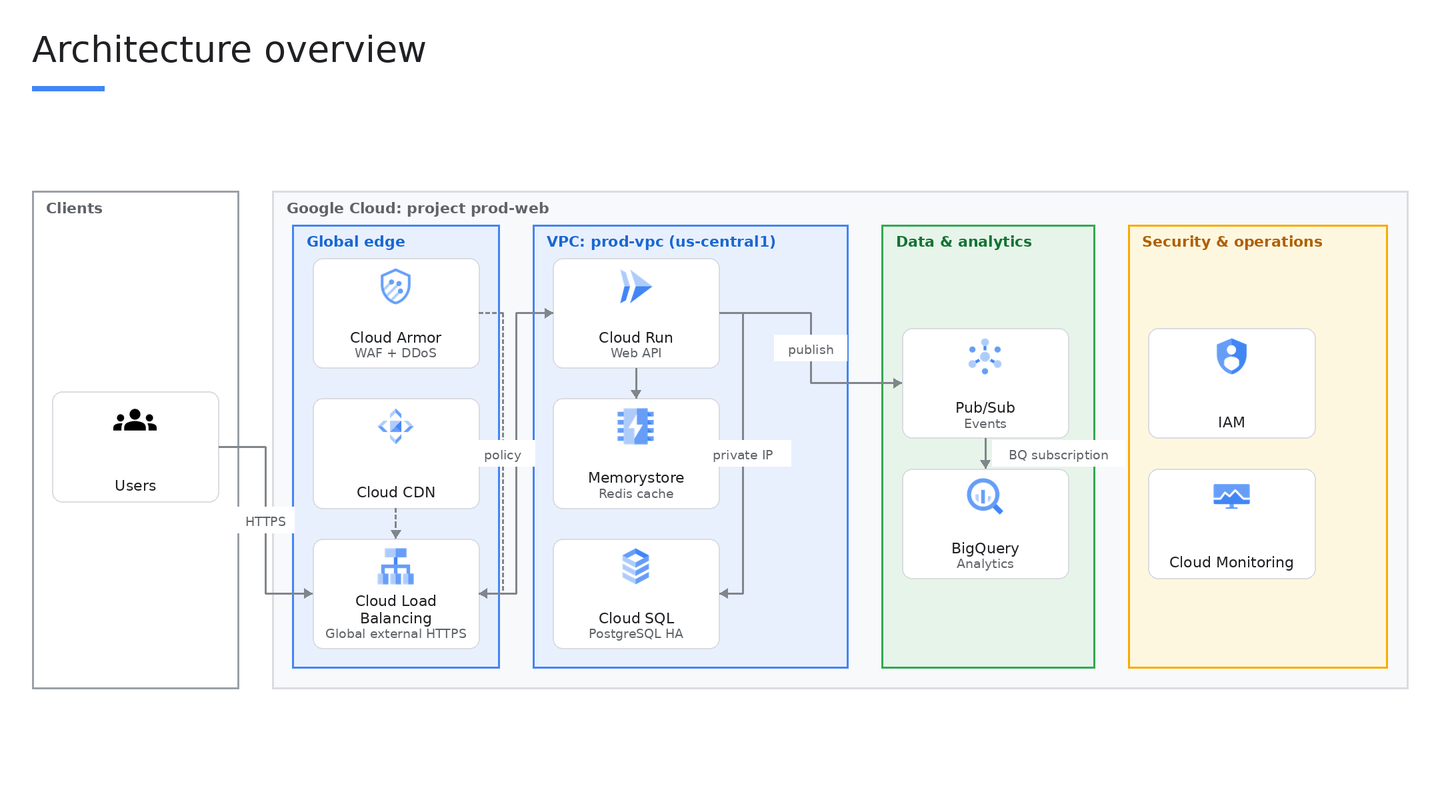
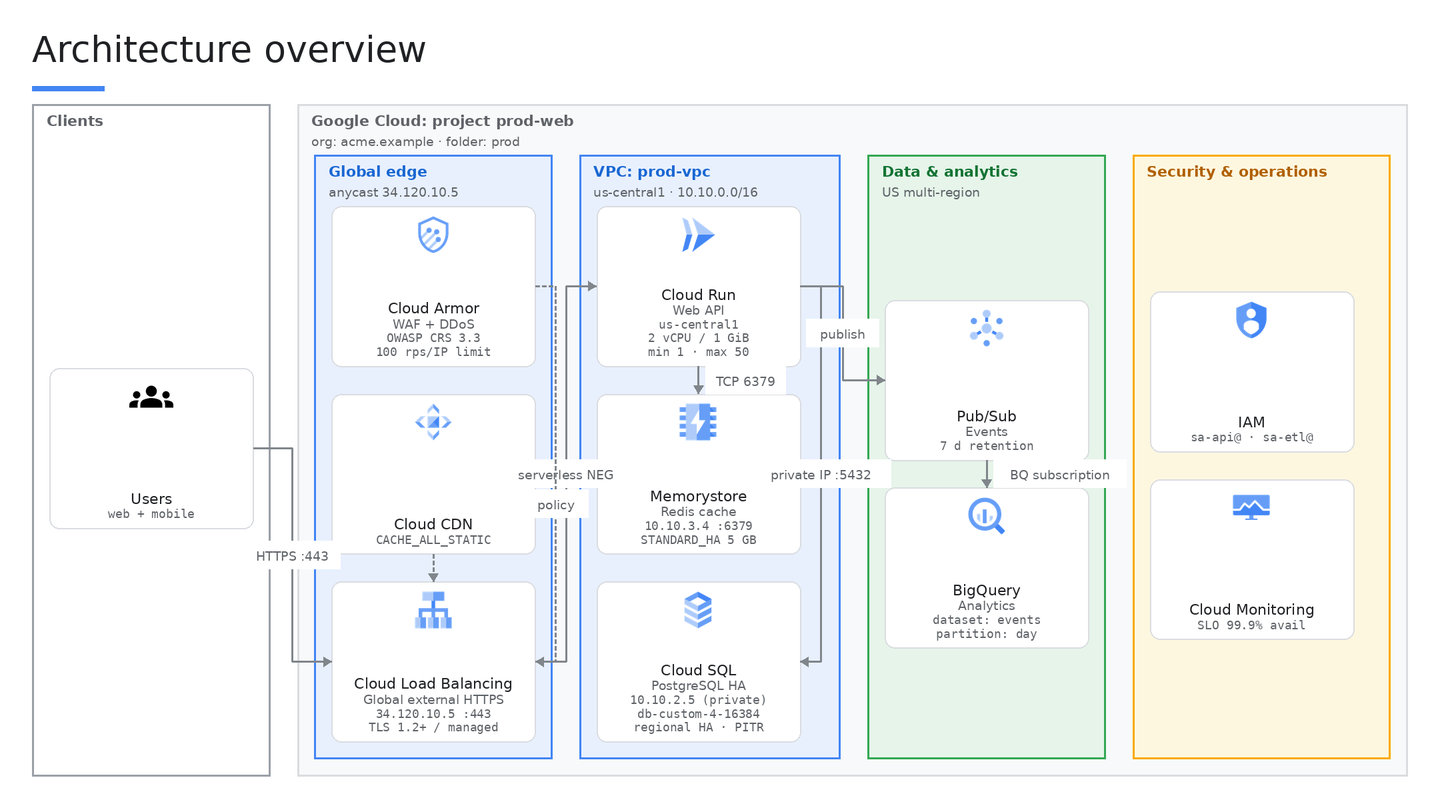
Diagrams: low-level detail — zone detail lines (region/CIDR/project), up to 3 monospace detail lines per card (IPs, ports, machine types, tiers, HA, SLOs), port-level edge labels, dynamic card size, label collision avoidance; validated on live Slides API

diff --git a/gcp_architect/diagram/spec.py b/gcp_architect/diagram/spec.py
@@ -29,7 +29,11 @@ class Zone(BaseModel):
     """A labelled container (boundary) drawn around nodes and/or child zones."""
 
     id: str = Field(description="Short snake_case identifier, e.g. 'vpc_prod'.")
-    label: str = Field(description="Display label, e.g. 'VPC: prod-vpc (us-central1)'.")
+    label: str = Field(description="Display label, e.g. 'VPC: prod-vpc'.")
+    detail: str | None = Field(
+        default=None, max_length=48,
+        description="Second line with low-level facts, e.g. 'us-central1 · 10.10.0.0/16' or 'project: acme-prod-01'.",
+    )
     kind: ZoneKind = "generic"
     parent: str | None = Field(default=None, description="Id of the enclosing zone, if nested.")
 
@@ -53,6 +57,20 @@ class Node(BaseModel):
     )
     icon: str | None = Field(default=None, description="Optional explicit icon id override.")
     zone: str | None = Field(default=None, description="Id of the zone that contains this node.")
+    details: list[str] = Field(
+        default_factory=list, max_length=3,
+        description="Up to 3 short technical lines (<= 20 chars each) shown on the card in monospace: "
+                    "region/zone, IP or CIDR, machine type, tier/edition, instance counts, ports. "
+                    "e.g. ['us-central1', '10.10.1.0/24', 'e2-standard-4 x3'].",
+    )
+
+    @field_validator("details")
+    @classmethod
+    def _short_details(cls, v: list[str]) -> list[str]:
+        for d in v:
+            if len(d) > 20:
+                raise ValueError(f"detail line too long ({len(d)} > 20 chars): '{d}'")
+        return v
 
     @field_validator("id")
     @classmethod
@@ -65,7 +83,7 @@ class Node(BaseModel):
 class Edge(BaseModel):
     source: str
     target: str
-    label: str | None = Field(default=None, description="Short protocol/flow label, e.g. 'HTTPS', 'CDC'.")
+    label: str | None = Field(default=None, max_length=28, description="Short protocol/flow label, e.g. 'HTTPS :443', 'CDC', 'BGP 169.254.0.1'.")
     style: EdgeStyle = "solid"
     bidirectional: bool = False
 
@@ -136,32 +154,32 @@ def example_spec() -> dict:
         "subtitle": "Globally load-balanced Cloud Run API with Cloud SQL, Memorystore and Pub/Sub analytics",
         "zones": [
             {"id": "ext", "label": "Clients", "kind": "external"},
-            {"id": "gcp", "label": "Google Cloud: project prod-web", "kind": "project"},
-            {"id": "edge", "label": "Global edge", "kind": "network", "parent": "gcp"},
-            {"id": "vpc", "label": "VPC: prod-vpc (us-central1)", "kind": "network", "parent": "gcp"},
-            {"id": "data", "label": "Data & analytics", "kind": "data", "parent": "gcp"},
+            {"id": "gcp", "label": "Google Cloud: project prod-web", "detail": "org: acme.example · folder: prod", "kind": "project"},
+            {"id": "edge", "label": "Global edge", "detail": "anycast 34.120.10.5", "kind": "network", "parent": "gcp"},
+            {"id": "vpc", "label": "VPC: prod-vpc", "detail": "us-central1 · 10.10.0.0/16", "kind": "network", "parent": "gcp"},
+            {"id": "data", "label": "Data & analytics", "detail": "US multi-region", "kind": "data", "parent": "gcp"},
             {"id": "ops", "label": "Security & operations", "kind": "operations", "parent": "gcp"},
         ],
         "nodes": [
-            {"id": "users", "label": "Users", "product": "users", "zone": "ext"},
-            {"id": "lb", "label": "Cloud Load Balancing", "sublabel": "Global external HTTPS", "product": "cloud_load_balancing", "zone": "edge"},
-            {"id": "armor", "label": "Cloud Armor", "sublabel": "WAF + DDoS", "product": "cloud_armor", "zone": "edge"},
-            {"id": "cdn", "label": "Cloud CDN", "product": "cloud_cdn", "zone": "edge"},
-            {"id": "api", "label": "Cloud Run", "sublabel": "Web API", "product": "cloud_run", "zone": "vpc"},
-            {"id": "cache", "label": "Memorystore", "sublabel": "Redis cache", "product": "memorystore", "zone": "vpc"},
-            {"id": "db", "label": "Cloud SQL", "sublabel": "PostgreSQL HA", "product": "cloud_sql", "zone": "vpc"},
-            {"id": "topic", "label": "Pub/Sub", "sublabel": "Events", "product": "pubsub", "zone": "data"},
-            {"id": "bq", "label": "BigQuery", "sublabel": "Analytics", "product": "bigquery", "zone": "data"},
-            {"id": "iam", "label": "IAM", "product": "iam", "zone": "ops"},
-            {"id": "mon", "label": "Cloud Monitoring", "product": "cloud_monitoring", "zone": "ops"},
+            {"id": "users", "label": "Users", "product": "users", "zone": "ext", "details": ["web + mobile"]},
+            {"id": "lb", "label": "Cloud Load Balancing", "sublabel": "Global external HTTPS", "product": "cloud_load_balancing", "zone": "edge", "details": ["34.120.10.5 :443", "TLS 1.2+ / managed"]},
+            {"id": "armor", "label": "Cloud Armor", "sublabel": "WAF + DDoS", "product": "cloud_armor", "zone": "edge", "details": ["OWASP CRS 3.3", "100 rps/IP limit"]},
+            {"id": "cdn", "label": "Cloud CDN", "product": "cloud_cdn", "zone": "edge", "details": ["CACHE_ALL_STATIC"]},
+            {"id": "api", "label": "Cloud Run", "sublabel": "Web API", "product": "cloud_run", "zone": "vpc", "details": ["us-central1", "2 vCPU / 1 GiB", "min 1 · max 50"]},
+            {"id": "cache", "label": "Memorystore", "sublabel": "Redis cache", "product": "memorystore", "zone": "vpc", "details": ["10.10.3.4 :6379", "STANDARD_HA 5 GB"]},
+            {"id": "db", "label": "Cloud SQL", "sublabel": "PostgreSQL HA", "product": "cloud_sql", "zone": "vpc", "details": ["10.10.2.5 (private)", "db-custom-4-16384", "regional HA · PITR"]},
+            {"id": "topic", "label": "Pub/Sub", "sublabel": "Events", "product": "pubsub", "zone": "data", "details": ["7 d retention"]},
+            {"id": "bq", "label": "BigQuery", "sublabel": "Analytics", "product": "bigquery", "zone": "data", "details": ["dataset: events", "partition: day"]},
+            {"id": "iam", "label": "IAM", "product": "iam", "zone": "ops", "details": ["sa-api@ · sa-etl@"]},
+            {"id": "mon", "label": "Cloud Monitoring", "product": "cloud_monitoring", "zone": "ops", "details": ["SLO 99.9% avail"]},
         ],
         "edges": [
-            {"source": "users", "target": "lb", "label": "HTTPS"},
-            {"source": "lb", "target": "api"},
+            {"source": "users", "target": "lb", "label": "HTTPS :443"},
+            {"source": "lb", "target": "api", "label": "serverless NEG"},
             {"source": "armor", "target": "lb", "style": "dashed", "label": "policy"},
             {"source": "cdn", "target": "lb", "style": "dashed"},
-            {"source": "api", "target": "cache"},
-            {"source": "api", "target": "db", "label": "private IP"},
+            {"source": "api", "target": "cache", "label": "TCP 6379"},
+            {"source": "api", "target": "db", "label": "private IP :5432"},
             {"source": "api", "target": "topic", "label": "publish"},
             {"source": "topic", "target": "bq", "label": "BQ subscription"},
         ],

diff --git a/gcp_architect/diagram/layout.py b/gcp_architect/diagram/layout.py
@@ -22,10 +22,13 @@ PAGE_W, PAGE_H = 720.0, 405.0
 AREA = (16.0, 52.0, 688.0, 336.0)  # x, y, w, h
 
 NODE_W, NODE_H = 100.0, 66.0
-GAP_X, GAP_Y = 28.0, 18.0
-ZONE_PAD = 12.0
+NODE_W_DETAILED = 120.0  # wider card when any node carries detail lines (monospace is wide)
+DETAIL_LINE_H = 9.5  # extra card height per detail line
+GAP_X, GAP_Y = 24.0, 16.0
+ZONE_PAD = 10.0
 ZONE_HEADER = 20.0  # space reserved for the zone label at the top
-ZONE_GAP = 20.0
+ZONE_DETAIL_H = 10.0  # extra header height when the zone has a detail line
+ZONE_GAP = 16.0
 MAX_ROWS = 3
 
 _LEFT, _RIGHT = "__left__", "__right__"
@@ -70,6 +73,7 @@ class Layout:
     scale: float
     node_w: float
     node_h: float
+    detail_lines: int = 0  # max detail lines on any card (drives card height)
     warnings: list[str] = field(default_factory=list)
 
 
@@ -123,34 +127,38 @@ def _grid(n: int) -> tuple[int, int]:
     return cols, rows
 
 
-def _measure(block: _Block) -> None:
+def _zone_header(zone: Zone | None) -> float:
+    return ZONE_HEADER + (ZONE_DETAIL_H if zone is not None and zone.detail else 0.0)
+
+
+def _measure(block: _Block, node_w: float, node_h: float) -> None:
     for c in block.children:
-        _measure(c)
+        _measure(c, node_w, node_h)
     n = len(block.nodes)
     cols, rows = _grid(n)
     block.cols, block.rows = cols, rows
-    block.node_block_w = cols * NODE_W + max(0, cols - 1) * GAP_X if n else 0.0
-    block.node_block_h = rows * NODE_H + max(0, rows - 1) * GAP_Y if n else 0.0
+    block.node_block_w = cols * node_w + max(0, cols - 1) * GAP_X if n else 0.0
+    block.node_block_h = rows * node_h + max(0, rows - 1) * GAP_Y if n else 0.0
 
     parts_w = ([block.node_block_w] if n else []) + [c.w for c in block.children]
     parts_h = ([block.node_block_h] if n else []) + [c.h for c in block.children]
     inner_w = sum(parts_w) + max(0, len(parts_w) - 1) * ZONE_GAP
-    inner_h = max(parts_h) if parts_h else NODE_H
+    inner_h = max(parts_h) if parts_h else node_h
 
     if block.zone is None:  # pseudo container for free nodes
         block.w, block.h = inner_w, inner_h
     else:
-        label_w = len(block.zone.label) * 5.6 + 14  # ~9pt bold Google Sans
-        block.w = max(inner_w, NODE_W, label_w) + 2 * ZONE_PAD
-        block.h = inner_h + ZONE_HEADER + ZONE_PAD
+        label_w = max(len(block.zone.label) * 5.6, len(block.zone.detail or "") * 4.6) + 14
+        block.w = max(inner_w, node_w, label_w) + 2 * ZONE_PAD
+        block.h = inner_h + _zone_header(block.zone) + ZONE_PAD
 
 
-def _place(block: _Block, x: float, y: float, h: float, depth: int, zones: list[ZoneBox], nodes: dict[str, NodeBox]) -> None:
+def _place(block: _Block, x: float, y: float, h: float, node_w: float, node_h: float, depth: int, zones: list[ZoneBox], nodes: dict[str, NodeBox]) -> None:
     """Place a block at (x, y) with an allotted height `h` (siblings are stretched to equal height)."""
     if block.zone is not None:
         zones.append(ZoneBox(block.zone, Rect(x, y, block.w, h), depth))
-        cx, cy = x + ZONE_PAD, y + ZONE_HEADER
-        inner_h = h - ZONE_HEADER - ZONE_PAD
+        cx, cy = x + ZONE_PAD, y + _zone_header(block.zone)
+        inner_h = h - _zone_header(block.zone) - ZONE_PAD
         child_depth = depth + 1
     else:
         cx, cy = x, y
@@ -163,17 +171,17 @@ def _place(block: _Block, x: float, y: float, h: float, depth: int, zones: list[
         per_col = _column_sizes(len(block.nodes), block.cols)
         i = 0
         for col, size in enumerate(per_col):
-            col_h = size * NODE_H + (size - 1) * GAP_Y
+            col_h = size * node_h + (size - 1) * GAP_Y
             col_top = top + (block.node_block_h - col_h) / 2
             for row in range(size):
                 node = block.nodes[i]
                 i += 1
-                nx = cursor + col * (NODE_W + GAP_X)
-                ny = col_top + row * (NODE_H + GAP_Y)
-                nodes[node.id] = NodeBox(node, Rect(nx, ny, NODE_W, NODE_H))
+                nx = cursor + col * (node_w + GAP_X)
+                ny = col_top + row * (node_h + GAP_Y)
+                nodes[node.id] = NodeBox(node, Rect(nx, ny, node_w, node_h))
         cursor += block.node_block_w + ZONE_GAP
     for child in block.children:
-        _place(child, cursor, cy, inner_h, child_depth, zones, nodes)
+        _place(child, cursor, cy, inner_h, node_w, node_h, child_depth, zones, nodes)
         cursor += child.w + ZONE_GAP
 
 
@@ -186,6 +194,9 @@ def build_layout(spec: ArchitectureSpec) -> Layout:
     warnings: list[str] = []
     ranks = compute_ranks(spec)
     order_index = {n.id: i for i, n in enumerate(spec.nodes)}
+    detail_lines = max((len(n.details) for n in spec.nodes), default=0)
+    node_h = NODE_H + DETAIL_LINE_H * detail_lines
+    node_w = NODE_W_DETAILED if detail_lines else NODE_W
 
     def sort_nodes(ns: list[Node]) -> list[Node]:
         return sorted(ns, key=lambda n: (ranks.get(n.id, 0), order_index[n.id]))
@@ -220,15 +231,15 @@ def build_layout(spec: ArchitectureSpec) -> Layout:
         roots.append(_Block(zone=None, nodes=sort_nodes(right_free), children=[]))
 
     for r in roots:
-        _measure(r)
+        _measure(r, node_w, node_h)
     total_w = sum(r.w for r in roots) + max(0, len(roots) - 1) * ZONE_GAP
-    total_h = max(r.h for r in roots) if roots else NODE_H
+    total_h = max(r.h for r in roots) if roots else node_h
 
     zones: list[ZoneBox] = []
     nodes: dict[str, NodeBox] = {}
     cursor = 0.0
     for r in roots:
-        _place(r, cursor, 0.0, total_h, 0, zones, nodes)
+        _place(r, cursor, 0.0, total_h, node_w, node_h, 0, zones, nodes)
         cursor += r.w + ZONE_GAP
 
     ax, ay, aw, ah = AREA
@@ -245,4 +256,5 @@ def build_layout(spec: ArchitectureSpec) -> Layout:
     nodes = {k: NodeBox(v.node, v.rect.scaled(scale, dx, dy)) for k, v in nodes.items()}
     # Ensure parents are drawn before children (they already are, by construction).
     zones.sort(key=lambda zb: zb.depth)
-    return Layout(zones=zones, nodes=nodes, scale=scale, node_w=NODE_W * scale, node_h=NODE_H * scale, warnings=warnings)
+    return Layout(zones=zones, nodes=nodes, scale=scale, node_w=node_w * scale, node_h=node_h * scale,
+                  detail_lines=detail_lines, warnings=warnings)

diff --git a/gcp_architect/diagram/slides_builder.py b/gcp_architect/diagram/slides_builder.py
@@ -277,7 +277,9 @@ class DeckBuilder:
         s = lay.scale
         label_size = max(7.0, round(9.0 * s, 1))
         sub_size = max(6.5, round(7.5 * s, 1))
+        detail_size = max(6.0, round(6.8 * s, 1))
         zone_size = max(7.5, round(9.0 * s, 1))
+        zone_detail_size = max(6.5, round(7.2 * s, 1))
         icon_px = 26 * s
 
         # 1. zones (parents first so children draw on top)
@@ -285,7 +287,10 @@ class DeckBuilder:
             st = ZONE_STYLE.get(zb.zone.kind, ZONE_STYLE["generic"])
             sid = self.shape(page, "RECTANGLE", zb.rect, fill=st["fill"], stroke=st["stroke"], weight=st["weight"],
                              dash=st["dash"], content_alignment="TOP", name=f"zone_{zb.zone.id}")
-            self.text(sid, zb.zone.label, size=zone_size, color=st["label"], bold=True)
+            ztext = zb.zone.label + (f"\n{zb.zone.detail}" if zb.zone.detail else "")
+            self.text(sid, ztext, size=zone_size, color=st["label"], bold=True, line_spacing=90)
+            if zb.zone.detail:
+                self.style_range(sid, len(zb.zone.label) + 1, len(ztext), size=zone_detail_size, color=INK_MUTED, bold=False)
 
         # 2. node cards + icons
         card_ids: dict[str, str] = {}
@@ -296,10 +301,20 @@ class DeckBuilder:
                              content_alignment="BOTTOM", name=f"node_{nid}")
             card_ids[nid] = cid
             label = n.label
-            content = label + (f"\n{n.sublabel}" if n.sublabel else "")
+            parts = [label] + ([n.sublabel] if n.sublabel else []) + list(n.details)
+            content = "\n".join(parts)
             self.text(cid, content, size=label_size, color=INK, align="CENTER", line_spacing=90)
+            pos = len(label) + 1
             if n.sublabel:
-                self.style_range(cid, len(label) + 1, len(content), size=sub_size, color=INK_MUTED)
+                self.style_range(cid, pos, pos + len(n.sublabel), size=sub_size, color=INK_MUTED)
+                pos += len(n.sublabel) + 1
+            if n.details:
+                self.add({"updateTextStyle": {
+                    "objectId": cid,
+                    "textRange": {"type": "FIXED_RANGE", "startIndex": pos, "endIndex": len(content)},
+                    "style": {"fontFamily": MONO, "fontSize": pt(detail_size), "foregroundColor": {"opaqueColor": rgb(INK_MUTED)}},
+                    "fields": "fontFamily,fontSize,foregroundColor",
+                }})
             icon_url = self._icon_url(n)
             if icon_url:
                 self.image(page, icon_url, Rect(r.cx - icon_px / 2, r.y + 4 * s, icon_px, icon_px), name=f"icon_{nid}")
@@ -310,6 +325,7 @@ class DeckBuilder:
                 self.text(g, (label[:1] or "?").upper(), size=max(7, 11 * s), color="#FFFFFF", bold=True, align="CENTER")
 
         # 3. connectors (bound to cards so they follow when moved)
+        placed_labels: list[Rect] = []
         for e in self.spec.edges:
             if e.source == e.target or e.source not in lay.nodes or e.target not in lay.nodes:
                 continue
@@ -319,7 +335,7 @@ class DeckBuilder:
                 lsize = max(6.5, 7 * s)
                 # Text boxes have ~7.2pt insets on each side; size the box so short labels never wrap.
                 w = len(e.label) * lsize * 0.56 + 18
-                lr = label_rect(route(a, b, s), w, 14)
+                lr = label_rect(route(a, b, s), w, 14, placed_labels)
                 self.textbox(page, lr, e.label, size=lsize, color=INK_MUTED, align="CENTER",
                              fill="#FFFFFF", content_alignment="MIDDLE", name="elabel")
         return page

diff --git a/scripts/preview_diagram.py b/scripts/preview_diagram.py
@@ -27,9 +27,10 @@ from gcp_architect import catalog_data  # noqa: E402
 S = 3  # px per pt
 
 
-def font(size_pt: float, bold: bool = False):
+def font(size_pt: float, bold: bool = False, mono: bool = False):
     cands = [
-        "/usr/share/fonts/truetype/dejavu/DejaVuSans-Bold.ttf" if bold else "/usr/share/fonts/truetype/dejavu/DejaVuSans.ttf",
+        "/usr/share/fonts/truetype/dejavu/DejaVuSansMono.ttf" if mono else
+        ("/usr/share/fonts/truetype/dejavu/DejaVuSans-Bold.ttf" if bold else "/usr/share/fonts/truetype/dejavu/DejaVuSans.ttf"),
         "/usr/share/fonts/truetype/roboto/Roboto-Bold.ttf" if bold else "/usr/share/fonts/truetype/roboto/Roboto-Regular.ttf",
     ]
     for c in cands:
@@ -72,6 +73,8 @@ def main():
         r = zb.rect
         d.rectangle([r.x * S, r.y * S, (r.x + r.w) * S, (r.y + r.h) * S], fill=st["fill"], outline=st["stroke"], width=int(st["weight"] * S))
         d.text(((r.x + 7) * S, (r.y + 4) * S), zb.zone.label, fill=st["label"], font=font(max(7.5, 9 * sc), bold=True))
+        if zb.zone.detail:
+            d.text(((r.x + 7) * S, (r.y + 15) * S), zb.zone.detail, fill=INK_MUTED, font=font(max(6.5, 7.2 * sc)))
 
     card = {}
     for nid, nb in lay.nodes.items():
@@ -84,15 +87,17 @@ def main():
         if p:
             im = Image.open(p).convert("RGBA").resize((int(ic * S), int(ic * S)), Image.LANCZOS)
             img.paste(im, (int((r.cx - ic / 2) * S), int((r.y + 4 * sc) * S)), im)
-        f1, f2 = font(max(7, 9 * sc)), font(max(6.5, 7.5 * sc))
+        f1, f2, f3 = font(max(7, 9 * sc)), font(max(6.5, 7.5 * sc)), font(max(6, 6.8 * sc), mono=True)
         lines = [(l, f1, INK) for l in wrap(d, nb.node.label, f1, (r.w - 10) * S)]
         if nb.node.sublabel:
             lines += [(l, f2, INK_MUTED) for l in wrap(d, nb.node.sublabel, f2, (r.w - 10) * S)]
+        lines += [(l, f3, INK_MUTED) for l in nb.node.details]
         y = (r.y + r.h - 4) * S - sum(fn.size * 1.15 for _, fn, _ in lines)
         for t, fn, col in lines:
             d.text((r.cx * S - d.textlength(t, font=fn) / 2, y), t, fill=col, font=fn)
             y += fn.size * 1.15
 
+    placed = []
     for e in spec.edges:
         if e.source not in card or e.target not in card:
             continue
@@ -120,7 +125,7 @@ def main():
             lsize = max(6.5, 7 * sc)
             fl = font(lsize)
             w = max(24.0, len(e.label) * lsize * 0.58 + 10)
-            lr = label_rect(rt, w, 13)
+            lr = label_rect(rt, w, 14, placed)
             d.rectangle([lr.x * S, lr.y * S, (lr.x + lr.w) * S, (lr.y + lr.h) * S], fill="white")
             tw = d.textlength(e.label, font=fl)
             d.text((lr.cx * S - tw / 2, lr.cy * S - fl.size / 2), e.label, fill=INK_MUTED, font=fl)

diff --git a/gcp_architect/prompts.py b/gcp_architect/prompts.py
@@ -143,8 +143,21 @@ complete, variablized project grounded in the **official Terraform Google provid
   cross-cutting services, `external`/`onprem` for anything outside Google Cloud. Use `region`
   zones when multi-region matters. Every zone label should be specific ("VPC: prod-shared (us-central1)").
 - Node `label` = official product name; `sublabel` = its role here ("Orders API", "PostgreSQL 16 HA").
-- Edge labels are short (protocol or data flow: "HTTPS", "gRPC", "CDC", "private IP").
+- Edge labels are short (protocol/port or data flow: "HTTPS :443", "gRPC", "CDC", "BGP 169.254.0.1").
   Use `dashed` for control-plane / policy / async relationships.
+- **Low-level detail (always include, this is what makes the diagram useful to engineers):**
+  - Zone `detail` line: region(s) and CIDR for networks ("us-central1 · 10.10.0.0/16"), project id /
+    folder for project zones, "US multi-region" for data zones, anycast IP for the global edge,
+    AS number / location for on-prem ("AS 65001 · Frankfurt DC").
+  - Node `details` (up to 3 lines, <= 20 chars each, monospace): the concrete facts an engineer
+    would ask for — region/zone, private IP or subnet ("10.10.2.5 (private)", "subnet 10.10.1.0/24"),
+    external/anycast IP and port ("34.120.10.5 :443"), machine type / tier / edition
+    ("e2-standard-4 x3", "db-custom-4-16384", "Enterprise Plus"), size/capacity ("5 GB", "2 vCPU / 1 GiB"),
+    scaling bounds ("min 1 · max 50"), HA/replication ("regional HA · PITR", "3 zones"), retention,
+    partitioning, SLO targets, service-account names. Use realistic placeholder values when the
+    customer has not given them (RFC 1918 ranges, example anycast IPs) and say so in the reply.
+  - Edge labels carry protocol and port where meaningful ("TCP 6379", "private IP :5432").
+  - Keep text short: abbreviations are fine on cards; the component table holds the full wording.
 - Components table: one row per product with its role and the key configuration (edition, tier,
   HA mode, region, CMEK, etc.). Considerations: 4-6 pillars with 2-5 crisp bullets each.
   References: the official pages you actually used.

diff --git a/gcp_architect/diagram/routing.py b/gcp_architect/diagram/routing.py
@@ -67,8 +67,18 @@ def route(a: Rect, b: Rect, scale: float = 1.0) -> Route:
     return Route(s, e, pts, (p0[0] + 4 * scale, my), "right")
 
 
-def label_rect(r: Route, w: float, h: float) -> Rect:
+def label_rect(r: Route, w: float, h: float, placed: list[Rect] | None = None) -> Rect:
+    """Label box on the route; if `placed` is given, nudge down until it no longer overlaps earlier labels."""
     x, y = r.label_center
-    if r.label_side == "right":
-        return Rect(x, y - h / 2, w, h)
-    return Rect(x - w / 2, y - h / 2, w, h)
+    rect = Rect(x, y - h / 2, w, h) if r.label_side == "right" else Rect(x - w / 2, y - h / 2, w, h)
+    if placed is not None:
+        for _ in range(6):
+            if not any(_overlaps(rect, p) for p in placed):
+                break
+            rect = Rect(rect.x, rect.y + h + 1, rect.w, rect.h)
+        placed.append(rect)
+    return rect
+
+
+def _overlaps(a: Rect, b: Rect) -> bool:
+    return a.x < b.x + b.w and a.x + a.w > b.x and a.y < b.y + b.h and a.y + a.h > b.y
